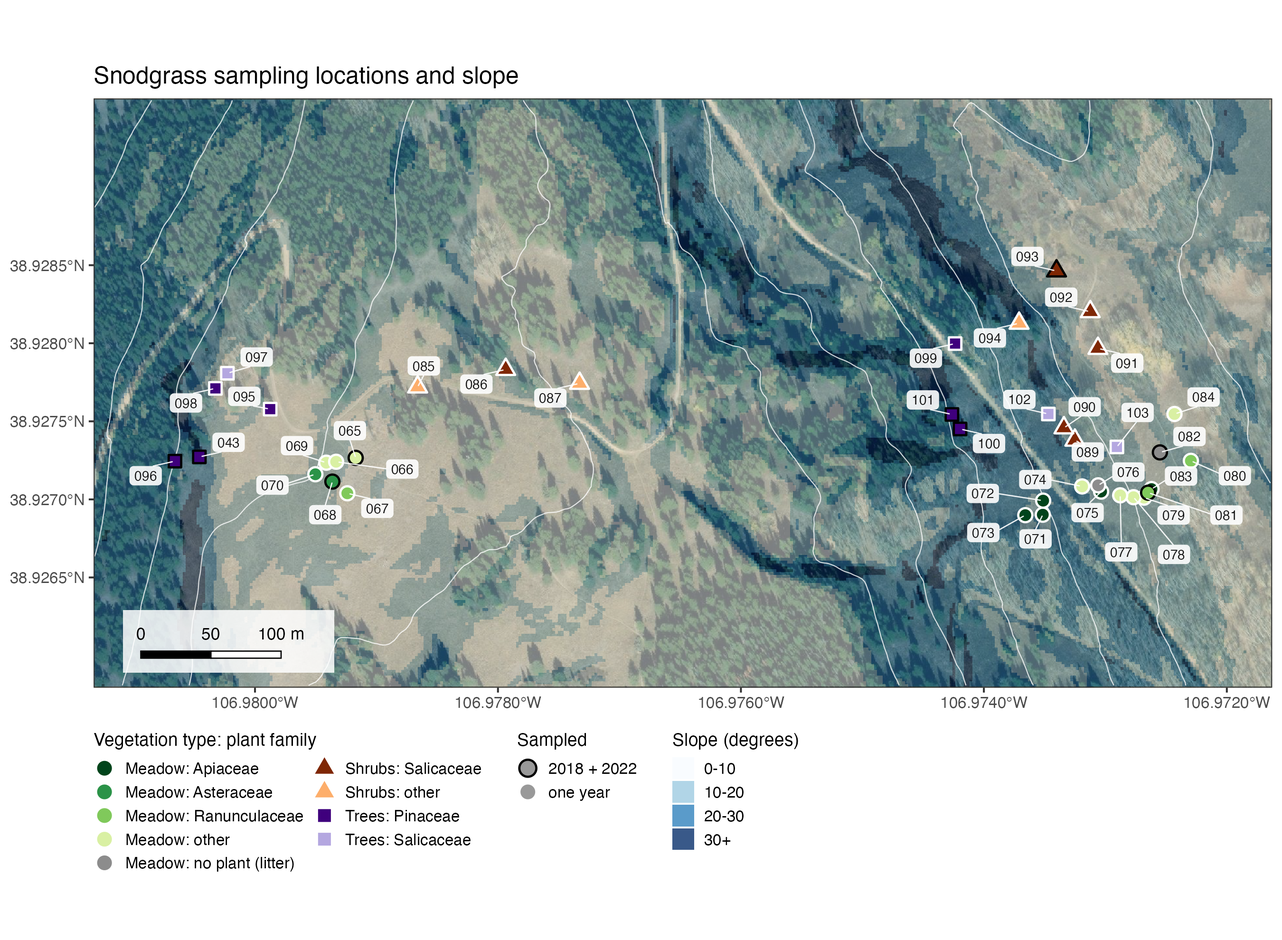
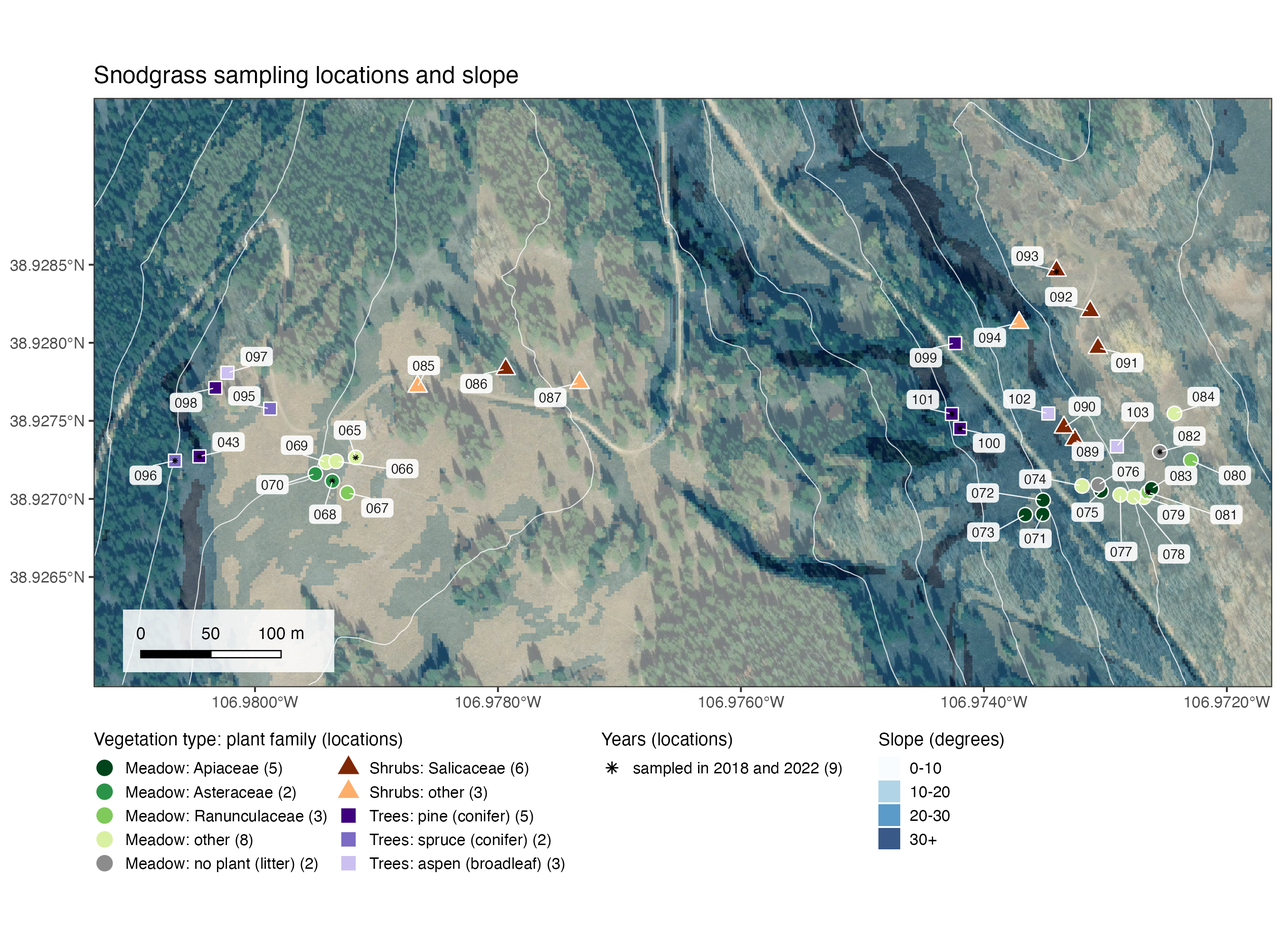
Sample maps: trees by species, year star, legend counts; all-sites scale bar on the right
- sample-map.R 1.8: --trees=species (pine, spruce, fir: conifer; aspen: broadleaf; shades of the Trees hue); locations
  sampled in both years marked by a small black star instead of the outline; points 10% larger; legend counts
  (locations); scale bar bottom right on the map of all sites
- config/neon_er_ER18_ER22/metadata: both maps redrawn; README

diff --git a/config/neon_er_ER18_ER22/metadata/README.md b/config/neon_er_ER18_ER22/metadata/README.md
@@ -38,9 +38,11 @@ year, coordinates, loci). Made from the results with
 
 `neon_er_ER18_ER22.Snodgrass.slope_map.png`: the Snodgrass site only, each location labelled with its sampling code,
 over terrain slope (USGS 3DEP elevation, slope computed in UTM, 10-degree classes) with 20 m contours (add
-`--site=Snodgrass --slope --colour=family` to the command above); points are coloured by plant family within
-vegetation type (Meadow greens, Shrubs oranges, Trees purples; the most common families over all samples get their own
-shade, the rest "other"), shape = vegetation type, black outline = sampled in 2018 and 2022. Both maps have a scale bar.
+`--site=Snodgrass --slope --colour=family --trees=species` to the command above); points are coloured by plant family
+within vegetation type (Meadow greens, Shrubs oranges, Trees purples; the most common families over all samples get
+their own shade, the rest "other"; trees by species: pine and spruce (conifer), aspen (broadleaf)), shape = vegetation
+type, a small black star = sampled in 2018 and 2022; legend counts are locations. Both maps have a scale bar (bottom
+left on the Snodgrass map, bottom right on the map of all sites).
 
 The map images carry only a title. Elevation for the slope map: USGS 3D Elevation Program (3DEP). Base-map credit, to cite with the figures: Tiles © Esri - Source: Esri, i-cubed,
 USDA, USGS, AEX, GeoEye, Getmapping, Aerogrid, IGN, IGP, UPR-EGP, and the GIS User Community. Samples without
